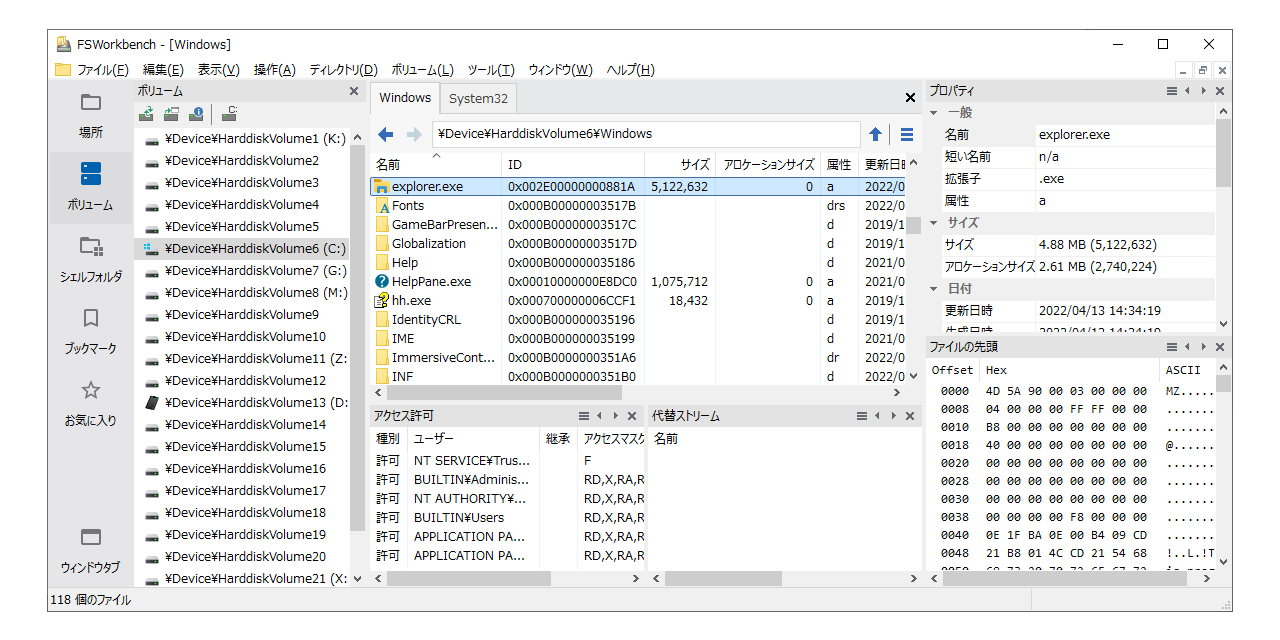
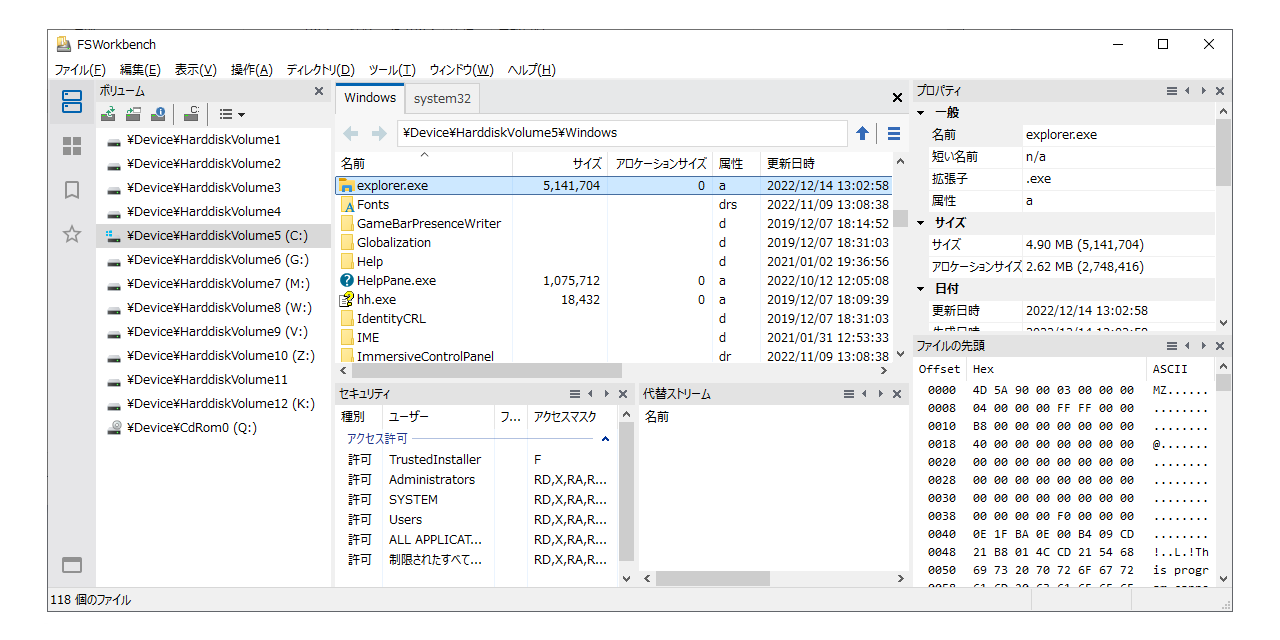
Build 4.0.749.8 Beta Release

diff --git a/README.md b/README.md
@@ -1,137 +1,37 @@
 # FSWorkbench
-### Version 3.4
+### Version 4.0 Beta
 
-FSWorkbenchは、コンピュータのハードディスクなどローカルストレージ上のボリュームに含まれるファイルをGUIのリスト形式で表示・操作するアプリケーションです。
-
-ファイルシステム関連の情報を表示する他、コピー,移動,削除など基本的な操作も行えます。
-
+FSWorkbenchは、コンピュータのハードディスクなどローカルストレージに含まれるファイルやディレクトリをGUIで表示・操作をするアプリケーションです。
+ファイルシステムの情報を表示する他、コピー,移動,削除など基本的な操作も行えます。
 ドライブの割り当てられていないボリュームを参照することも出来ます。
 
-ユーザーインターフェイスはMDI形式でTABを備えており、複数のファイルリストを表示できます。
->**Warning**現在採用されているMDI形式のウィンドウ構成は、次版（Ver.3.5）で廃止されます。[\(※MDIについて\)](#mdi形式について)
+Version 4.0では、メインフレームウィンドウを旧来のMDIスタイルからタブ切り替えのTDIウィンドウに変更しました。
+伝統的なWin32アプリケーションで、WinUIの様な最新のスキーム、デザインには対応していませんが、Windows 7、Windows 8.1やGUIが構成されたWindows RE/PEといった環境でも動作します。
 
-通常はユーザーモードで使用できますが、管理者モードで実行した場合すべての機能が利用できます。
+- ファイルシステム関連の情報を表示する他、コピー,移動,削除など基本的な操作に加え、日付の変更なども行えます。
 
-**注:** 現状ではFSWorkbenchはオープンソースではありません。
+- ドライブの割り当てられていないボリュームを参照することも出来ます。
 
-**NOTICE:** FSWorkbench is not open source. You will find here the builds only. 
+- MAX_PATH(260文字)以上のパスを扱えます。
 
-### Version 3.4.627.2 の更新内容   
+- ユーザーインターフェイスはTAB形式で、複数のファイルリストを表示できます。
 
-- ファイルリストにファイルをドロップしてコピーまたは移動するとき、プログレスバーが進まない不具合を修正しました。
+- ユーザーモードで使用できますが、管理者モードで実行した場合すべての機能が利用できます。例えばWIMイメージ管理ツールなどは管理者モードでのみ実行できます。
 
-- ボリュームナビの\[取り出し\]を実行するとウィンドウが消える（異常終了する）不具合を修正しました。
+>**Note:** FSWorkbenchは現在のところオープンソースではありません。   
+>**Note:** FSWorkbench is not open source. You will find here the builds only. 
 
-### Version 3.4.627.0 の更新内容   
+## Beta版
 
-- ユーザーモードのファイルリストで、親ディレクトリから降りていけなくてもパスを直接指定すれば参照できるはずのディレクトリを開けない不具合を修正しました。    
-  具体的には "C:\Program Files\WindowsApps\" 下のディレクトリです。
+- Version 4.0のBeta版を公開しました。
 
-- ボリュームセンターのボリューム情報で仮想ディスクを表示した際、「依存ボリュームファイル名」のパスが誤っている不具合を修正しました。同時に項目の内容を整理しました。
-
-- ボリュームナビゲーションペインで、ISOファイルがボリュームとしてアタッチされている時に項目テキストが仮想ディスクの色（青）にならない不具合を修正しました。
-  これはボリュームにアクセス可能な場合に限ります。
-
-- 管理者モード時、ファイルリストで拡張子が.vhd;.vhdx;.isoのファイルを選択してメニューの\[操作\]またはコンテキストメニューを開いた時、\[ファイル拡張子別の操作\]に\[仮想ボリュームとして接続する\]が表示される様になりました。
-
-- 管理者モード時、ボリュームナビゲーションペインに仮想ディスクの切り離しコマンドを試験的に追加しました。
-
-- その他、内部の細かい不具合を修正しました。
-
-### Version 3.4.626.0 の更新内容   
-
-**重要な変更**
-本バージョンより、サブディレクトリ以下を含めてファイルを検索する場合、リパースポイントを処理しない様に変更しました。
-そのため、検索対象内に他のディレクトリをポイントするリパースポイントが含まれていた場合、以下の処理で結果が異なります。    
-  - 対象
-    - 検索
-    - ディレクトリの使用状況
-    - 同じファイルを探す
-    - 拡張子の列挙
-    - サブディレクトリを含む場合の属性変更
-    - サブディレクトリを含む場合のACL変更
-
-ファイルの検索でリパースポイントを処理する場合は、今回追加された\[リパースポイントを処理しない\]のチェックを外してください。
-このチェックを外した場合は、リパースポイントの内容によっては他の場所に存在するディレクトリやファイルを含む場合があります。
-検索開始の場所より上位のディレクトリを自己参照している場合、繰り返し同じ内容が表示されることに留意してください。
-
->**Note** ファイルのコピー/移動および削除処理は以前のバージョンよりリパースポイントは処理していません。
-
-**その他の変更内容**
-
-- サイドパネルの\[アクセス許可\]ペインを\[セキュリティ\]に変更しました。 ACLの内容とSACL（監査、整合性レベル）の表示をグループで分けて表示する様にしました。
-
-- 同じディレクトリへの（同じウィンドウ内での）ファイルのドロップに対応しました。
-
-- コピー/移動処理時、事前のファイル数確認など前準備に時間がかかる場合ダイアログを表示する様にしました。
-
-- \[同じファイルを探す\]機能で、処理対象のファイルの上限を100,000件に設定しました。
-
-- Windows10の管理者モードでC:ドライブのルートからファイル検索した場合、Windowsの構成（具体的にはサンドボックス機能を有効にしている場合）によってはスタックオーバーフローを起こす不具合に対応しました。本件の対応に合わせデフォルトでリパースポイントの処理を無効にすると共に、サブディレクトリを含む検索処理に階層の上限を設定しました。64bit版の場合最大2048階層、32bit版の場合は1024階層となります。
-
-- ファイルリストのパスにシャドウボリュームを指定できなくなっていた不具合を修正しました。
-
-- その他細かい不具合を修正しました。
-  
-### Version 3.4.621.2 の更新内容   
-
-- Windows 7のAeroモードで実行した時、タブなど一部が誤った配色で表示される不具合を修正しました。
-
-- メニューハンドルのリークを修正しました。
-
-### Version 3.4.621.0 の更新内容   
-
-- ナビゲーションペインのボタン配置を変更しました。
-
-  \[ファイルリスト\]ボタンのテキストを\[ウィンドウタブ\]に変更し、バーの下端に配置する様に変更しました。
-
-- Windows 7 でクラシックモード時のウィンドウデザイン・配色を改善しました。   
-(デザインはモード切り替えに動的に追従しません。Aero/Classicを切り替える際はFSWorkbenchを一旦終了して切り替え後再度立ち上げてください。切り替えでデザインが崩れた場合は再立ち上げしてください)
-
-- 細かい不具合を修正しました。  
-
-### Version 3.4の新機能と更新内容   
-
-- ナビゲーションペインの変更   
-  従来タブで切り替えていたナビゲーションペインのページを、ウィンドウ左端に設けた「Outlookバー」状のタブで切り替える様に変更しました。ページはメインメニューからも切り替えできます。
-  ※将来削除・変更される可能性があります。   
-  ※プレビュー版で存在したディレクトリツリーは一旦保留となり使用できなくなりました。
-  
-  - ~~ファイルリスト~~（621.0では \[ウィンドウタブ\] に変更されました）   
-    新しく追加されました。表示中のファイルリストウィンドウの一覧が表示されます。ウィンドウ タブの様な操作をします。
-
-  - ボリューム   
-    従来の「ボリューム」です。NTデバイスネームスペースでのボリューム一覧から表示・選択できます。
-
-  - 場所   
-    新しく追加されました。ボリューム、ドライブ、シェルフォルダの一部、ブックマークをグループ化して表示するページです。   
-    現在レイアウトはuserfolders.iniに定義されていますが編集した場合の動作は保証されません。
-
-  - ブックマーク   
-    従来の「ブックマーク」です。ブックマークされたディレクトリの一覧から表示選択できます。
-
-  - お気に入り   
-    新しく追加されました。お気に入りの一覧から表示・選択できます。
-    旧バージョンFSDirWalkerが作成したファイルも使用できます。
-  
-  
-- ファイルリストの\[表示の種類\]にタイル表示を追加   
-
-  ファイルリストの\[表示の種類]に\[タイル]と\[サムネイルタイル]を追加しました。   
-  現在、デフォルトでタイルにファイル名のみ表示されます。タイル表示時に更新日付とサイズを表示したい場合は、レジストリに以下の値を追加します。   
-
-- お気に入りの追加、整理をサポート   
-
-  ファイルやディレクトリをお気に入りとして登録するための追加、整理機能をサポートしました。   
-
-### MDI形式について   
-現在採用されているMDI形式のウィンドウ構成は、次版（Ver.3.5）以降で廃止される予定です。単純なタブ切り替えのみのウィンドウとなります。
-MicrosoftがMDI形式を推奨していないこと、MDI子ウィンドウのデザインがWindows10/11に対応していないこと、機能を拡張する際にプログラム的にMDIでは維持が困難になってきたこと（特にWindows 10/11では、Win32アプリケーションはWindows 7と比べてウィンドウサイズ変更・再描画処理が著しく遅くなる）、現代的なユーザーインターフェイスに移行する際に適切ではないことなどが理由です。
+- Beta版に至るまでのプレビュー版はこちらで公開していました。   
+  https://github.com/yamashita-software-works/FSWorkbench-Preview-Releases/releases
 
 ### 実行環境
 
-Windows 10,Windows 8.1,Windows 7
-(64bit版/32bit版)
+Windows 11,Windows 10,Windows 8.1,Windows 7
+(64bit版/32bit版(10,8.1,7),ARMは非対応です)
 
 ### インストール
 
@@ -174,4 +74,13 @@ FSWorkbench自身が使用するレジストリキーは以下の通りです。
 
 - 本ソフトウェアの著作権は作者が留保します。
 
-  Copyright (C) 2015-2022 山下 克宏 (YAMASHITA Katsuhiro), Yamashita Software Works
+  Copyright (C) 2015-2023 山下 克宏 (YAMASHITA Katsuhiro), Yamashita Software Works. All right reserved.
+
+
+***
+FSWorkbench is a tool that displays information for files and directories on a local volume and performs simple operations. These operations are also available for volumes that do not have a drive assigned.
+Not a "Filer" for comfortable user experience.
+
+NOTICE:   
+- This is a BETA version.
+- Currentary, FSWorkbench is not open source. You will find here release builds only.
